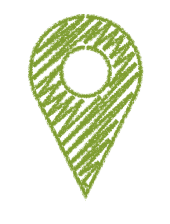
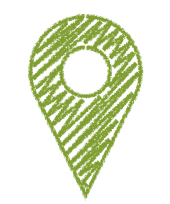
fix: 画像修正

Changed region(s): [[0.1471, 0.0588, 0.8529, 0.9706]]

diff --git a/components/map.tsx b/components/map.tsx
@@ -58,7 +58,7 @@ const MapComponent = () => {
                     return (
                         <MarkerF
                             key={index}
-                            icon={{ url: "pin.png", size: new google.maps.Size(85, 112), scaledSize: new google.maps.Size(85, 112) }}
+                            icon={{ url: "pin.png", size: new google.maps.Size(85, 102), scaledSize: new google.maps.Size(85, 102) }}
                             position={{
                                 lat: point.lat,
                                 lng: point.lng
